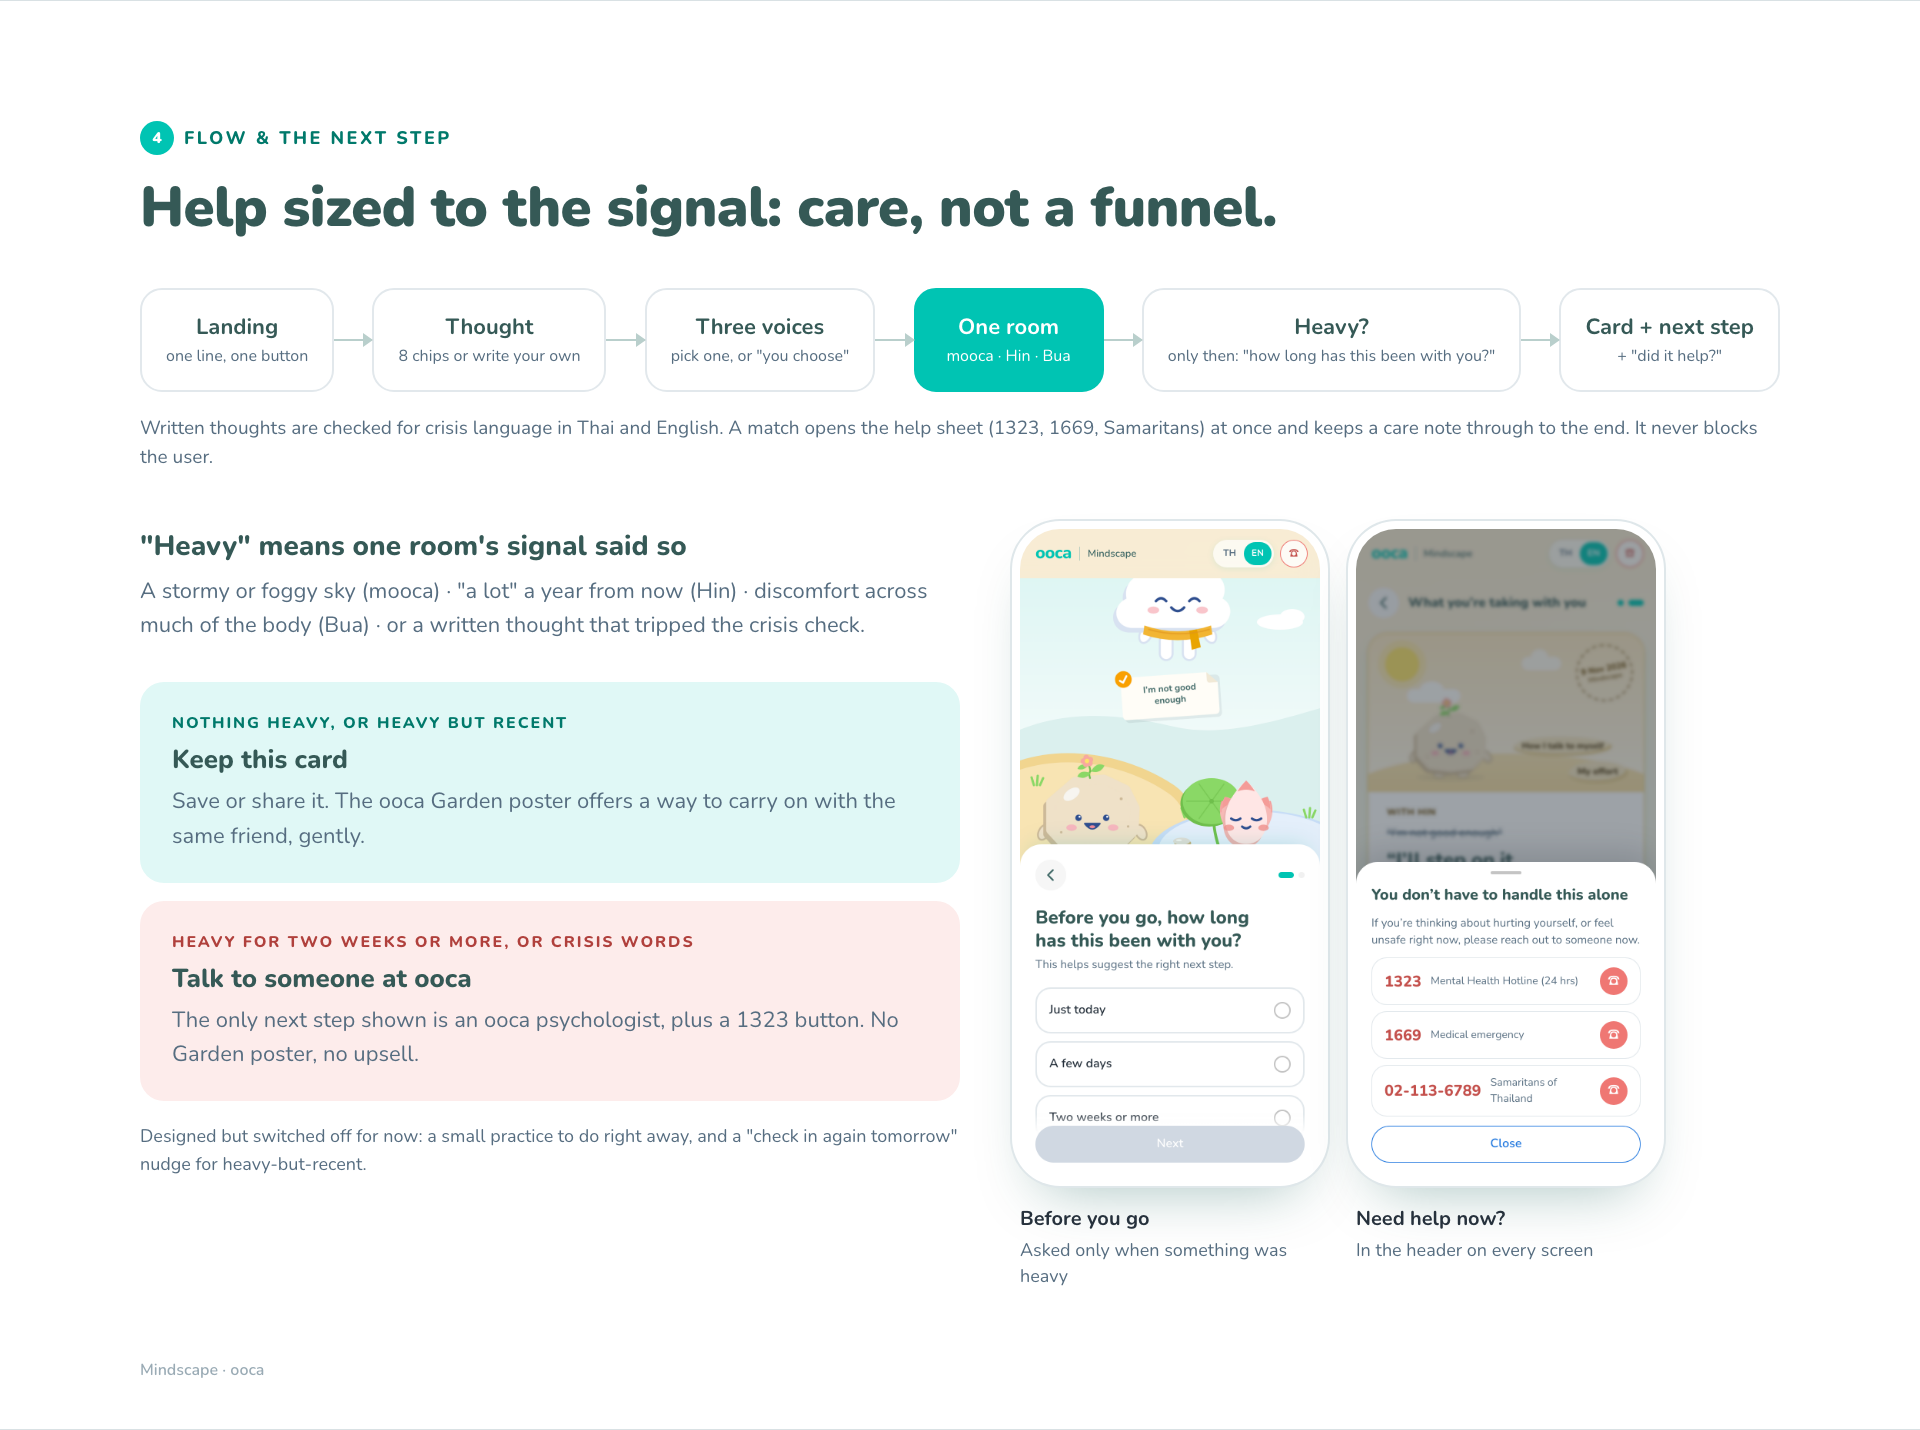
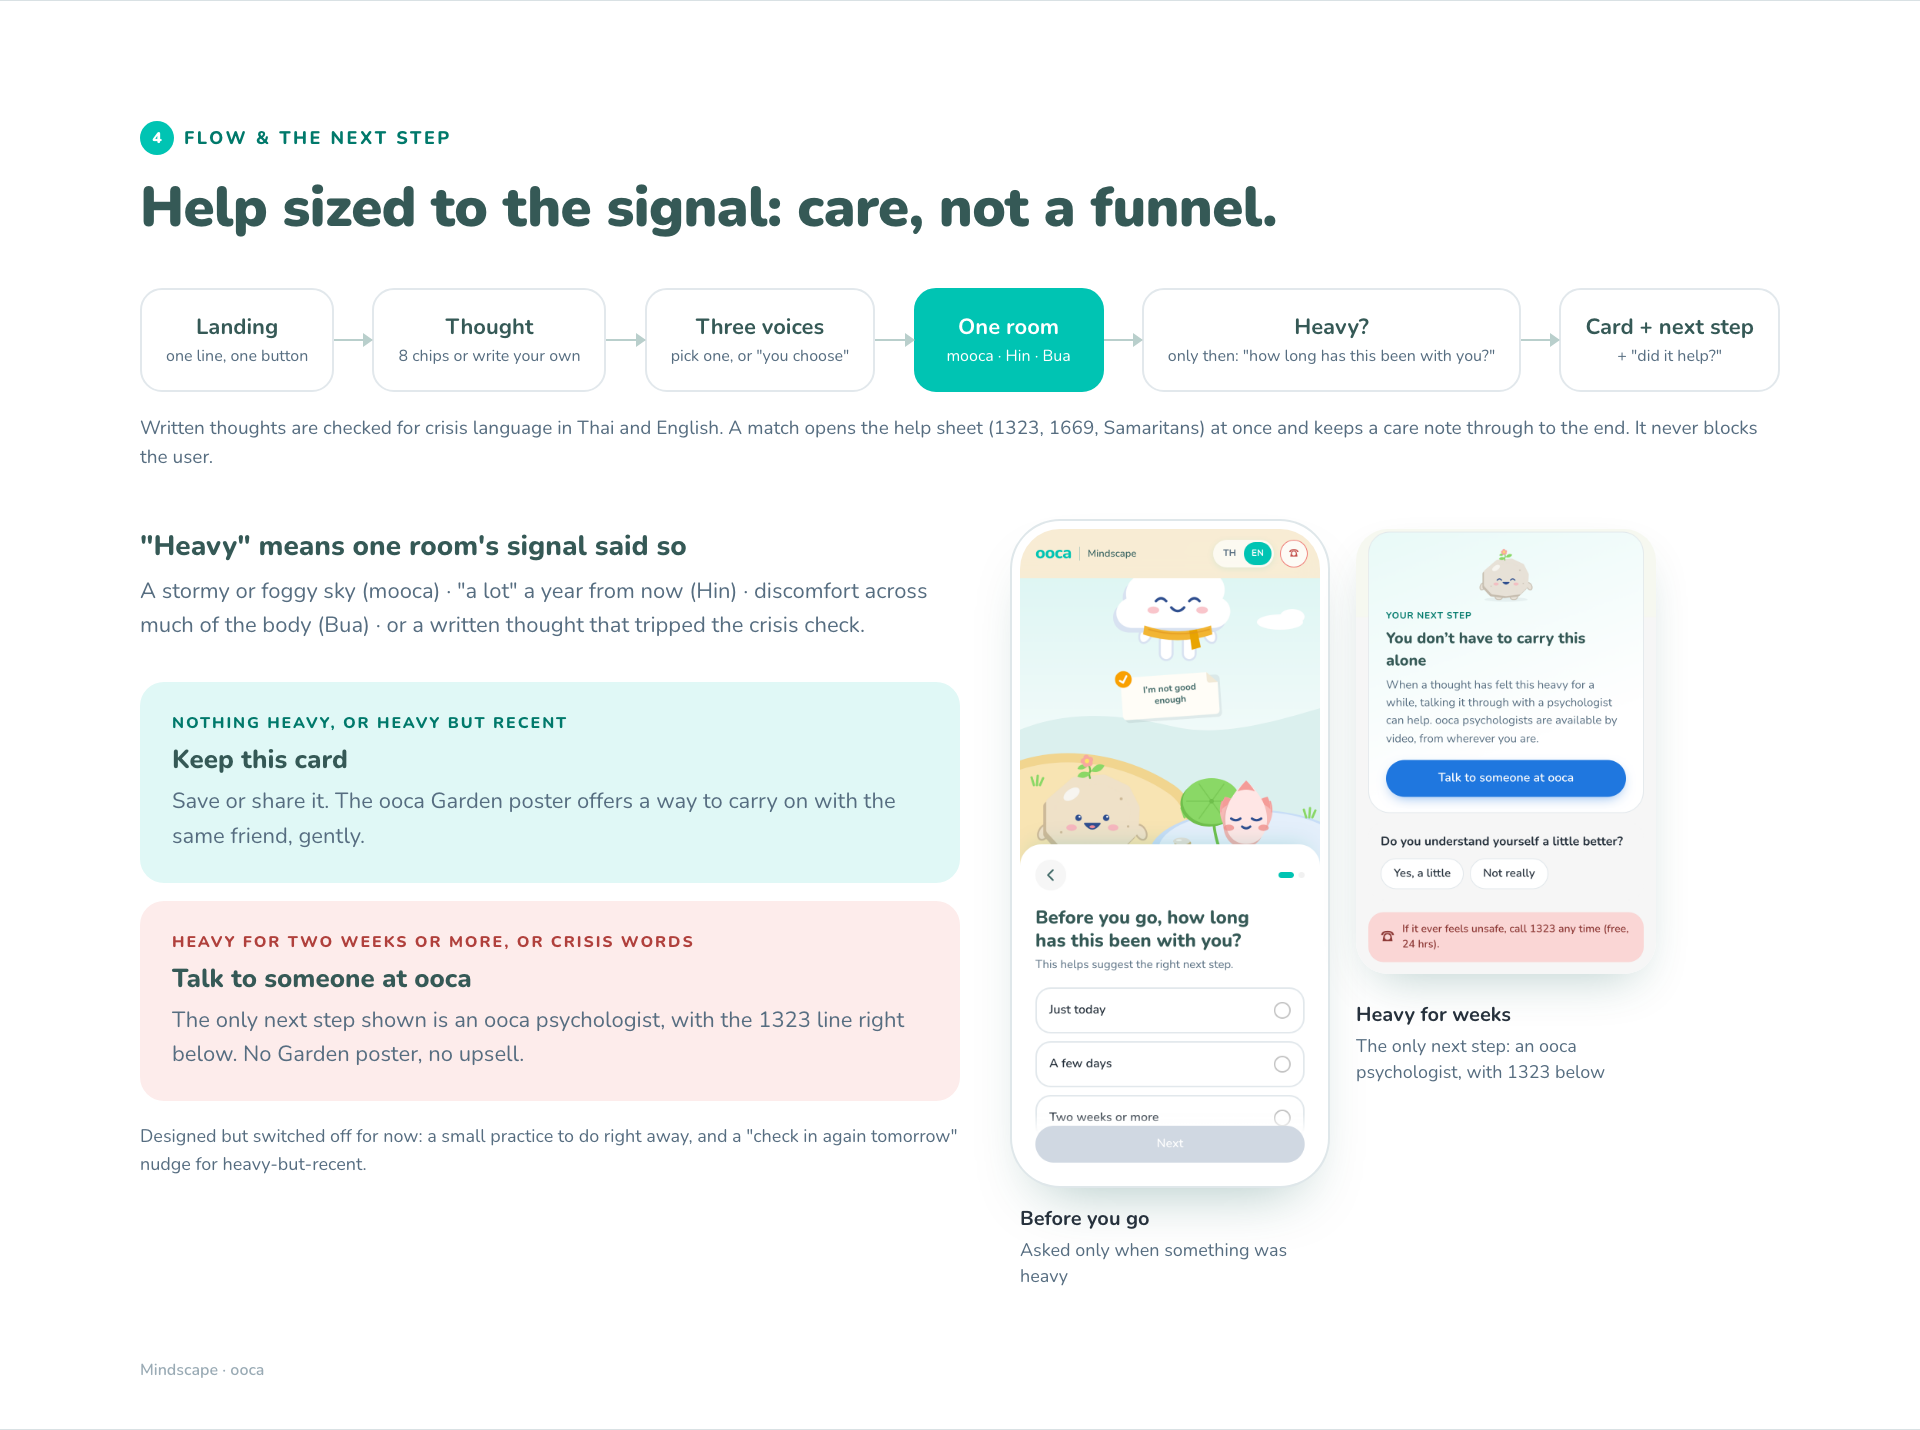
Care tier: drop the Call 1323 button, the 1323 line sits right below
Board: flow page shows the care-tier next step instead of the help sheet.

diff --git a/public/board/index.html b/public/board/index.html
@@ -342,13 +342,13 @@ ul.clean li:before{content:"";position:absolute;left:4px;top:13px;width:10px;hei
       <p style="margin-top:10px">A stormy or foggy sky (mooca) · "a lot" a year from now (Hin) · discomfort across much of the body (Bua) · or a written thought that tripped the crisis check.</p>
       <div class="branch" style="grid-template-columns:1fr;gap:18px">
         <div class="tier tier--keep"><span class="when">Nothing heavy, or heavy but recent</span><h3>Keep this card</h3><p>Save or share it. The ooca Garden poster offers a way to carry on with the same friend, gently.</p></div>
-        <div class="tier tier--care"><span class="when">Heavy for two weeks or more, or crisis words</span><h3>Talk to someone at ooca</h3><p>The only next step shown is an ooca psychologist, plus a 1323 button. No Garden poster, no upsell.</p></div>
+        <div class="tier tier--care"><span class="when">Heavy for two weeks or more, or crisis words</span><h3>Talk to someone at ooca</h3><p>The only next step shown is an ooca psychologist, with the 1323 line right below. No Garden poster, no upsell.</p></div>
         <p style="font-size:18px;margin-top:4px">Designed but switched off for now: a small practice to do right away, and a "check in again tomorrow" nudge for heavy-but-recent.</p>
       </div>
     </div>
     <div class="row" style="gap:36px">
       <div><div class="phone"><img src="screens/hin-duration.png" alt=""></div><p class="cap"><b>Before you go</b>Asked only when something was heavy</p></div>
-      <div><div class="phone"><img src="screens/m-crisis.png" alt=""></div><p class="cap"><b>Need help now?</b>In the header on every screen</p></div>
+      <div><div class="shot" style="width:300px;border-radius:32px"><img src="screens/m-care.png" alt=""></div><p class="cap"><b>Heavy for weeks</b>The only next step: an ooca psychologist, with 1323 below</p></div>
     </div>
   </div>
   <div class="foot"><span>Mindscape · ooca</span></div>

diff --git a/src/rooms/Ending.tsx b/src/rooms/Ending.tsx
@@ -225,9 +225,6 @@ export default function Ending({ lang, who, theme, card, heavy, tierFor, onBack,
                 <a className="btn btn--primary" href="https://www.ooca.co/" target="_blank" rel="noreferrer">
                   {t(steps.care.cta, lang)}
                 </a>
-                <a className="btn btn--danger" href="tel:1323">
-                  ☎ {t(ms.call1323, lang)}
-                </a>
               </div>
             )}
           </section>

diff --git a/README.md b/README.md
@@ -24,7 +24,7 @@ One illustrated landscape holds everything: mooca in the sky, Hin on the earth, 
 | A room (~2 min) | One companion, full depth (below) |
 | Before you go | "How long has this been with you?" Asked only when something was heavy |
 | Closing card | One card, in the room's colour: what the room found (in the user's own choices and words), the room's quote and where the idea comes from (e.g. "Stoic philosophy · the roots of CBT"). Save as an image, or share it from a phone |
-| Next step | One small thing to do right now (mooca's small step, Hin's virtue, Bua's step on the path), then keep the card, check in again tomorrow, or talk to an ooca psychologist (with a 1323 button) |
+| Next step | One small thing to do right now (mooca's small step, Hin's virtue, Bua's step on the path), then keep the card, check in again tomorrow, or talk to an ooca psychologist (with the 1323 line below it) |
 | Did it help? | "Do you understand yourself a little better?" Yes, a little / Not really. One tap, no score |
 
 ### The three rooms
